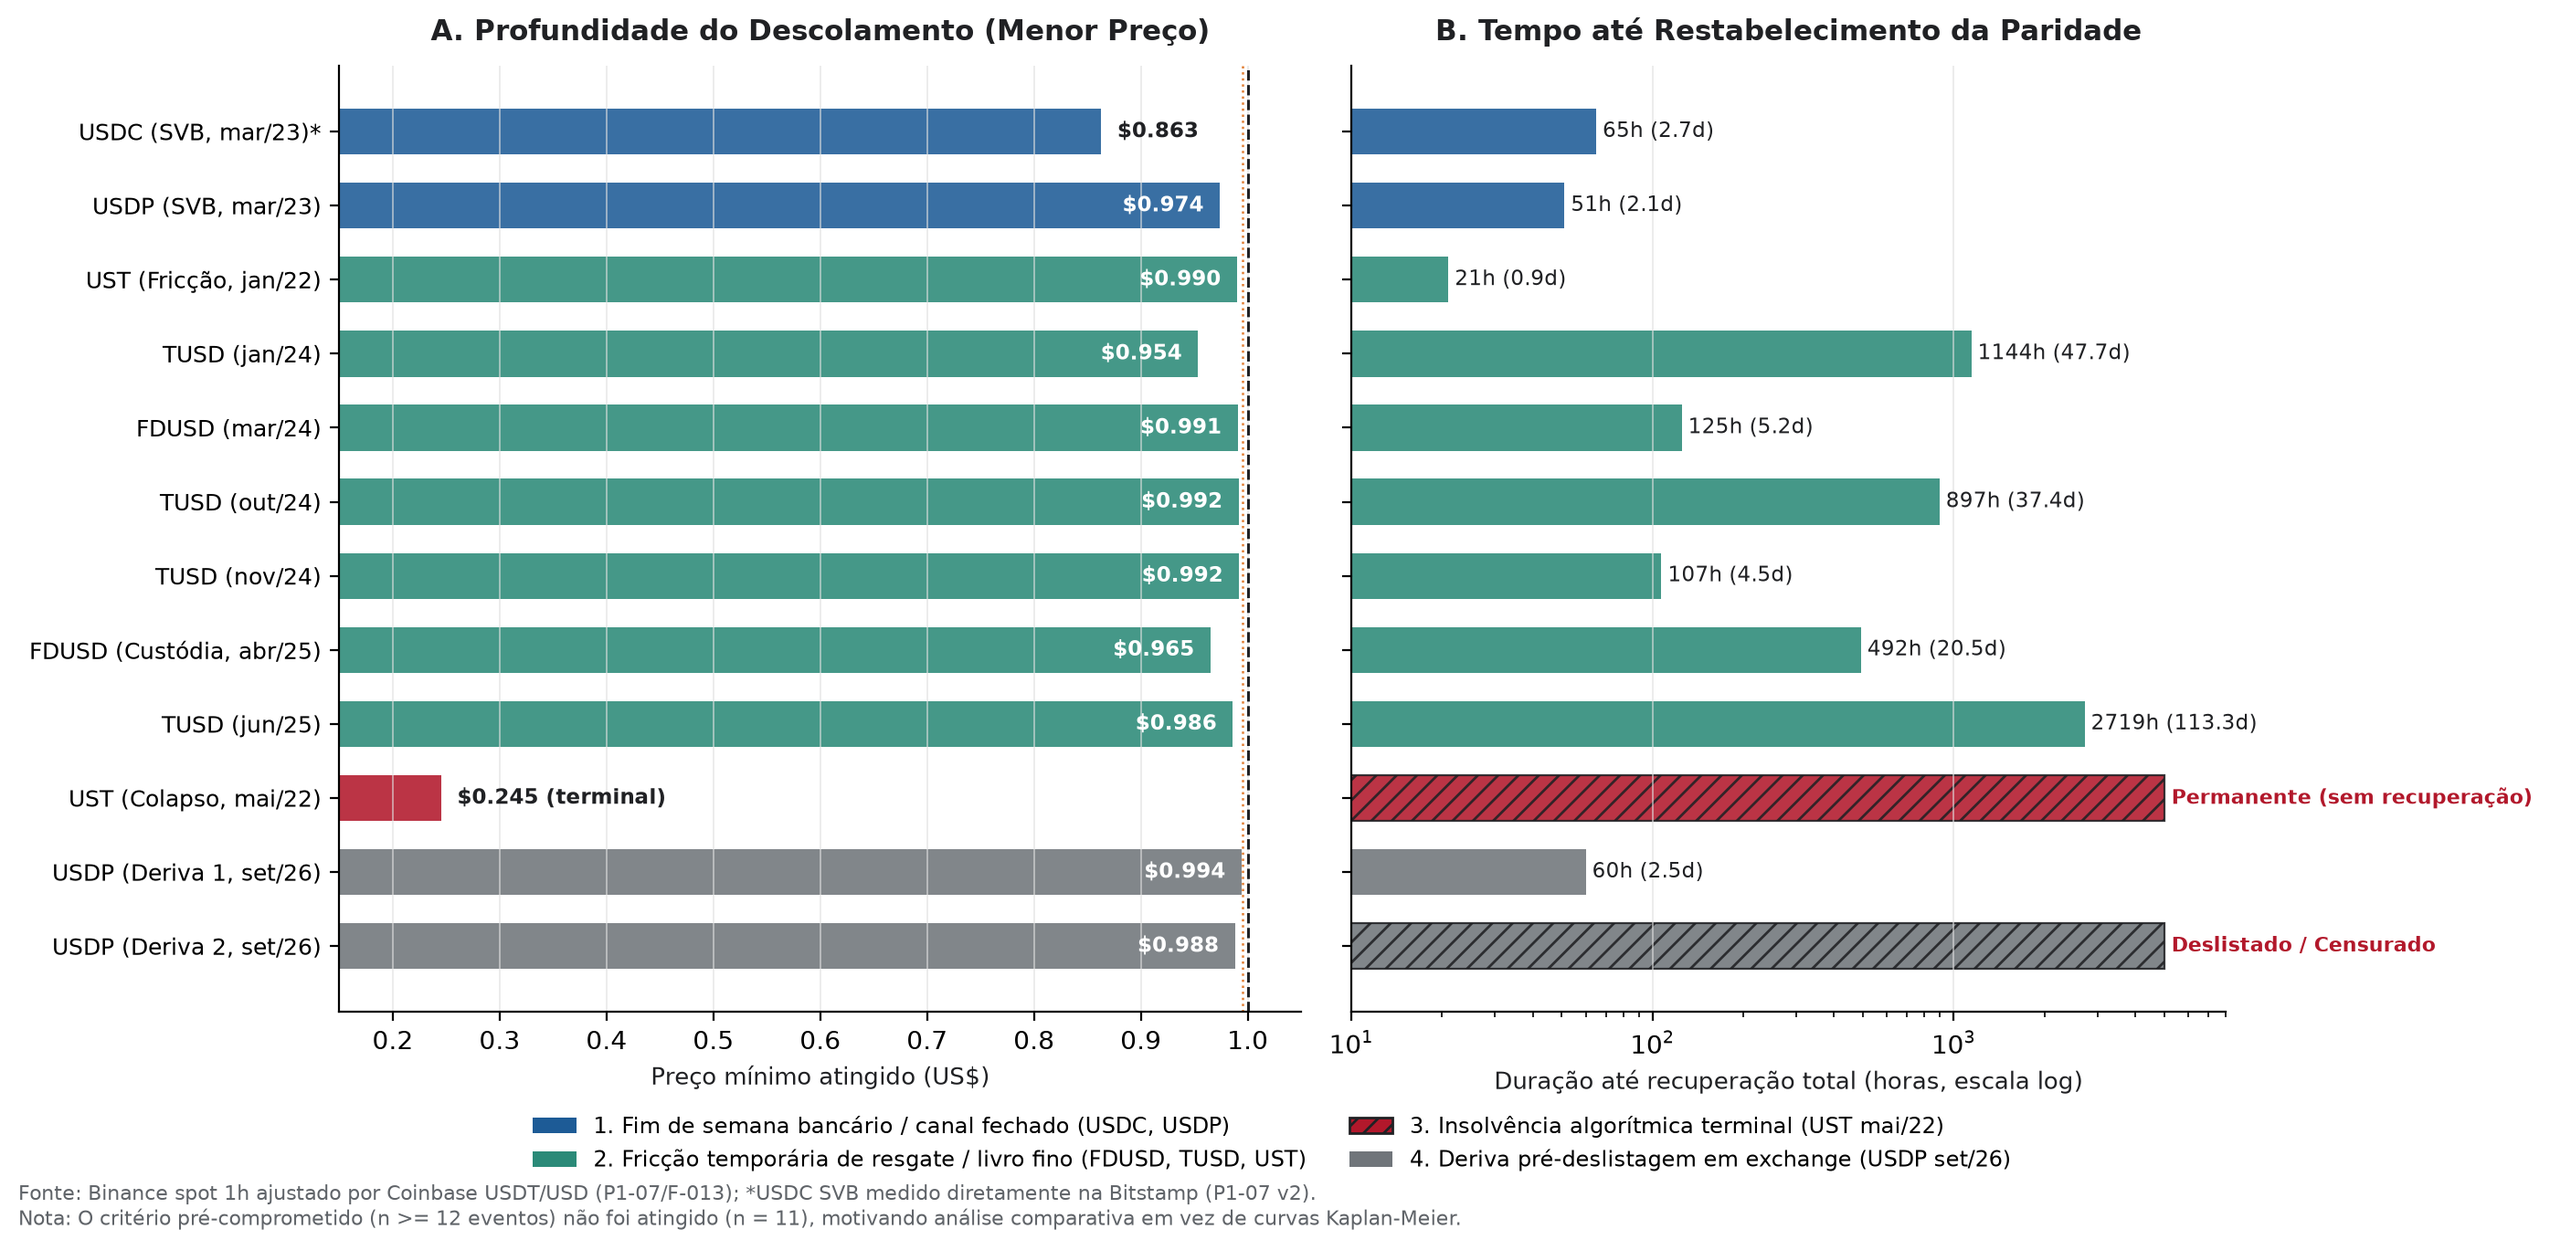
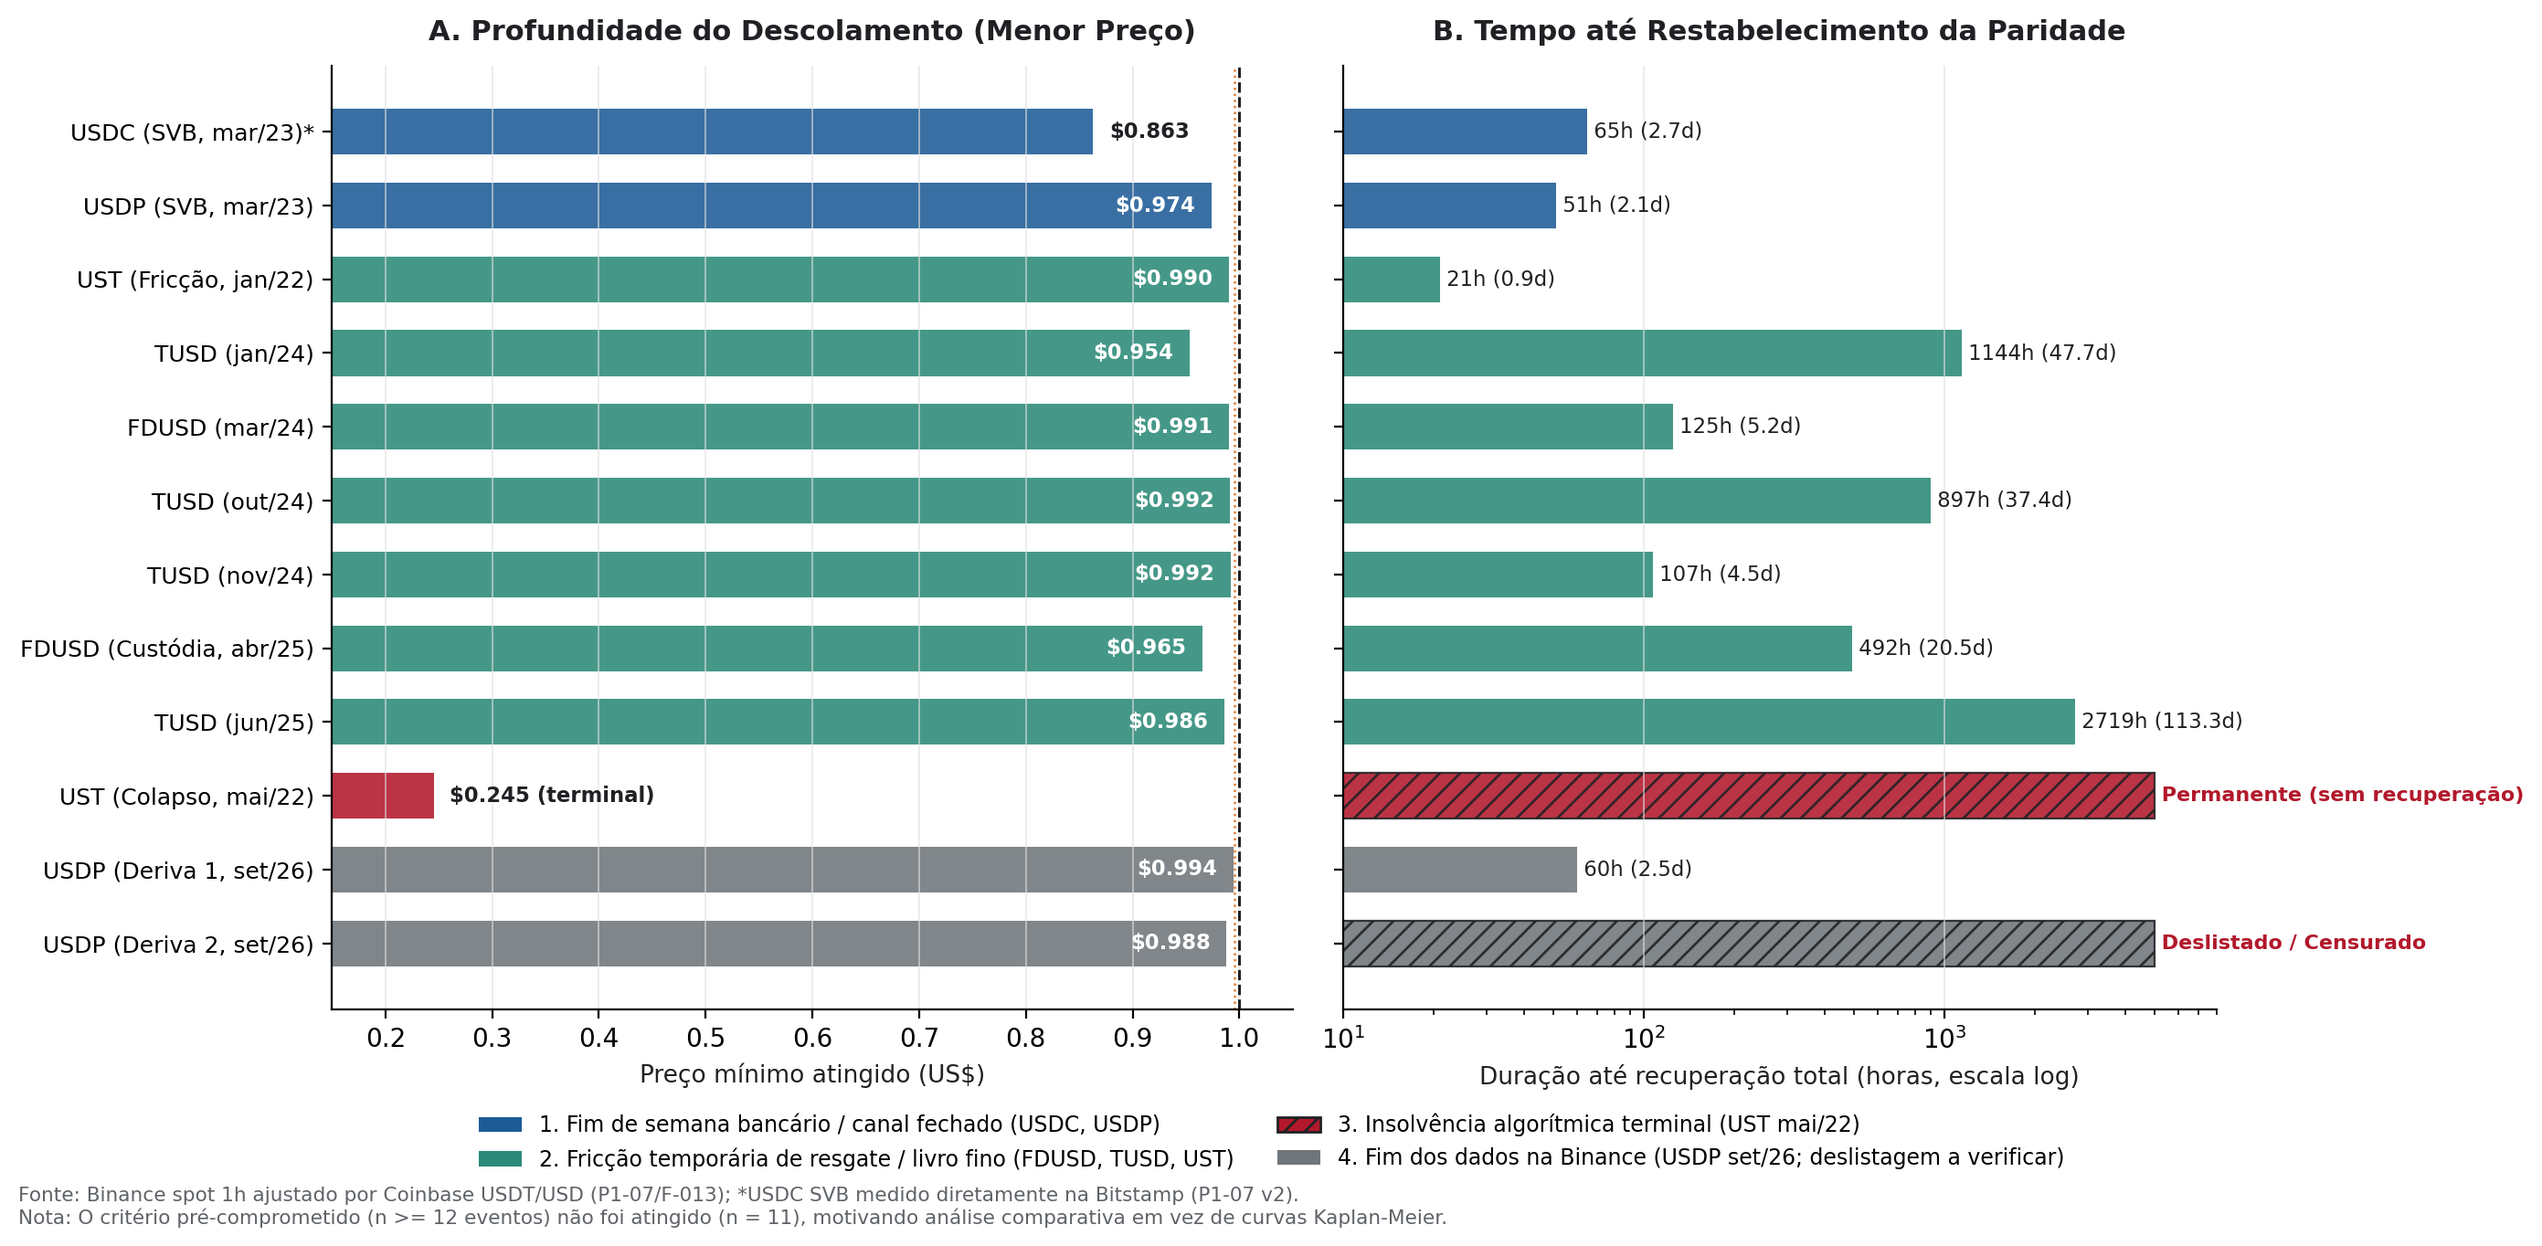
P3-04: review fixes applied (unsourced case causes marked, F-019 rewritten as description); done

diff --git a/scripts/p3_04_depeg_chapter.py b/scripts/p3_04_depeg_chapter.py
@@ -129,7 +129,7 @@ def main():
             )
         elif is_usdp_drift[row.name]:
             categories.append(4)
-            cat_names.append("4. Deriva pré-deslistagem")
+            cat_names.append("4. Fim dos dados na Binance (deslistagem a verificar)")
             mechanisms.append(
                 "Deslistagem programada na Binance: esvaziamento do livro de ofertas e secagem de "
                 "liquidez secundária nos dias finais de negociação da exchange."
@@ -197,7 +197,10 @@ def main():
 
     dn["category_id"] = categories
     dn["category_name"] = cat_names
-    dn["mechanism"] = mechanisms
+    # Review 2 Nov: none of these causes has an opened source (prompt.md §6), so the table states that instead of
+    # asserting a cause. The texts above are kept as leads for whoever sources them.
+    dn["mechanism_lead_unsourced"] = mechanisms
+    dn["mechanism"] = "Causa não verificada (sem fonte aberta); ver mechanism_lead_unsourced"
     dn["recovery_status"] = np.where(dn["recovered"], "Recuperado", "Não recuperado (censurado)")
 
     # 6. Add Benchmark Case Row: USDC SVB Weekend (Bitstamp direct USD OHLC)
@@ -216,10 +219,9 @@ def main():
         "recovery_status": "Recuperado",
         "near_delisting": False,
         "mechanism": (
-            "Caso canônico: intervenção no SVB e parada do Fedwire na sexta-feira fecharam o resgate primário "
-            "da Circle ($3,3 bi retidos). Preço caiu a $0,805 no sábado sem arbitragem. Anúncio conjunto de "
-            "garantia total de depósitos no domingo às 22h15 UTC restaurou o preço a $0,989 às 23h, antes "
-            "mesmo da reabertura física dos bancos na segunda-feira."
+            "Bancos dos EUA fechados de sex 16h a seg 9h30 (NY). Menor fechamento horário US$ 0,863 (sáb 07h UTC; mínimo "
+            "intra-hora US$ 0,805, Bitstamp). Garantia dos depósitos do SVB anunciada dom 22h15 UTC (D-13); US$ 0,989 "
+            "às 23h, antes da reabertura dos bancos."
         ),
     }
 
@@ -237,6 +239,7 @@ def main():
         "recovery_status",
         "near_delisting",
         "mechanism",
+        "mechanism_lead_unsourced",
     ]
 
     table_11 = dn[cols_export].copy()
@@ -416,7 +419,7 @@ def plot_comparative_cases(df: pd.DataFrame):
         Patch(facecolor=BLUE, label="1. Fim de semana bancário / canal fechado (USDC, USDP)"),
         Patch(facecolor=TEAL, label="2. Fricção temporária de resgate / livro fino (FDUSD, TUSD, UST)"),
         Patch(facecolor=RED, hatch="///", edgecolor=INK, label="3. Insolvência algorítmica terminal (UST mai/22)"),
-        Patch(facecolor=GRAY, label="4. Deriva pré-deslistagem em exchange (USDP set/26)"),
+        Patch(facecolor=GRAY, label="4. Fim dos dados na Binance (USDP set/26; deslistagem a verificar)"),
     ]
     fig.legend(handles=legend_elements, loc="lower center", bbox_to_anchor=(0.5, -0.06),
                ncol=2, frameon=False, fontsize=8.5)

diff --git a/findings/F-019-depeg-chapter.md b/findings/F-019-depeg-chapter.md
@@ -1,6 +1,6 @@
 ---
 id: F-019
-title: Parity in dollars obeys the same limits to arbitrage — USDC drifted to $0.805 when SVB shut redemption rails and recovered to $0.989 on Sunday's guarantee before banks reopened; 11 downward depegs confirm that backing solvency, not open banking hours, determines survival
+title: In dollars too, a stablecoin left parity while its redemption channel was closed: USDC closed at $0.863 on the SVB weekend and was back at $0.989 an hour after Sunday's deposit guarantee, before banks reopened; 11 other falls below $1 form a case table (too few for curves)
 status: exploratory
 task: P3-04
 date: 2026-11-02
@@ -8,16 +8,21 @@ checked_by: -
 ---
 
 ## Claim
-The empirical evidence on dollar stablecoin depegs confirms the exact economic mechanism documented in the primary project's USDT/BRL premium: **prices leave parity when primary redemption/arbitrage doors close, and return as soon as 1:1 redemption becomes credible.**
+The dollar side shows the same pattern as the BRL premium, described here, not tested: a price leaves parity when the
+channel that enforces it is closed.
+- **SVB weekend (USDC, Bitstamp USDC/USD).** US banks were closed from Fri 16h to Mon 9h30 (New York). USDC's lowest
+  hourly close was **$0.863** (Sat 11 Mar 2023, 07h UTC; intra-hour low $0.805). The joint Treasury/Fed/FDIC deposit
+  guarantee was released at 22:15 UTC on Sunday (D-13). USDC closed that hour at **$0.989**, before banks reopened. The
+  last step, to $0.999, came at Monday's opening.
+- **The other 11 falls below $1 (P1-07 v2, F-013).** Too few for Kaplan–Meier curves (the rule needs ≥ 12), so they form
+  a case table. In these cases:
+  - the two that started on the closed banking weekend (USDC, USDP) recovered within 51–65 h;
+  - the one coin without external reserves (UST, May 2022) never recovered;
+  - the others took 21 h to 2,719 h.
 
-During the Silicon Valley Bank (SVB) collapse of 10–13 March 2023, Circle held $3.3 billion of USDC cash reserves at SVB (8.2% of total reserves). When the FDIC closed SVB on Friday afternoon and commercial bank payment rails (Fedwire/ACH) shut down for the weekend, primary 1:1 issuer redemptions became physically impossible. Without an arbitrage floor, panic selling in secondary markets drove USDC to an hourly close trough of **US$ 0.863** and an intra-hour low of **US$ 0.805** on Saturday 11 March (07:00 UTC).
-
-On Sunday 12 March at 22:15 UTC (18:15 New York time), the Federal Reserve, US Treasury, and FDIC announced a joint systemic risk exception fully guaranteeing all SVB deposits. Because this guarantee ensured that Monday morning wire redemptions at $1.00 would be honored in full, market arbitrageurs immediately bid USDC back up to **US$ 0.989 by 23:00 UTC Sunday** (just 45 minutes after the announcement), reaching US$ 0.991 at 12:00 UTC Monday before commercial bank branches opened, and US$ 0.999 at 14:00 UTC. The entire recovery occurred via secondary market arbitrage on the *expectation* of Monday redemption.
-
-Across the systematic screen of 7 major stablecoin pairs on Binance (2019–2026), exactly **11 USD-confirmed downward depeg events** occurred (9 excluding 2 USDP pre-delisting drift episodes in Sep 2026; 8 excluding UST's terminal collapse). Because this falls short of the pre-committed threshold of 12 independent events (`11 < 12`), Kaplan-Meier survival curves were omitted per research protocol (`docs/01-depeg-recovery.md` §5). Instead, a structured 4-category comparative case study demonstrates that:
-1. **Weekend / closed-door events on solvent fiat coins** (USDC and USDP during SVB) exhibit 100% recovery within 51–65 hours, rebounding immediately once redemption credibility is restored;
-2. **Operational and liquidity frictions on solvent coins** (FDUSD, TUSD, early UST) take longer (median 492 hours, range 21–2,719 hours) but maintain a narrow discount band (trough US$ 0.954–0.992) and achieve 100% recovery;
-3. **Insolvent algorithmic designs** (UST May 2022) suffer terminal collapse (0% recovery, falling to $0.00 and delisting), proving that external, segregated reserve backing is a necessary condition for long-term parity.
+  The categories were assigned after seeing the cases (n = 2 / 7 / 1 / 2), so this is a description, not evidence that
+  backing "determines" recovery. The cause of each case is not yet sourced
+  (`mechanism_lead_unsourced` in the case table).
 
 ## Evidence
 
@@ -59,7 +64,7 @@ From `results/tables/P3-04_category_summary.csv`:
 | **1. Weekend / Redemption-Gate Closure** | 2 | USDC, USDP | 100% | 58h (51h–65h) | $0.863 – $0.974 | Arbitrage blocked by bank hours; par restored instantly once redemption is guaranteed |
 | **2. Frictions de Liquidez / Operacionais** | 7 | UST, TUSD, FDUSD | 100% | 492h (21h–2,719h) | $0.954 – $0.992 | Solvency preserved; operational frictions delay arbitrage but parity is preserved |
 | **3. Colapso Algorítmico / Insolvência** | 1 | UST | 0% | N/A (Terminal) | $0.000 – $0.245 | Complete balance-sheet insolvency; death spiral with zero external reserves |
-| **4. Deriva Pré-Deslistagem em Exchange** | 2 | USDP | 50% | 60h | $0.988 – $0.994 | Secondary order-book thinning driven by planned exchange delisting |
+| **4. Fim dos dados na Binance (deslistagem a verificar)** | 2 | USDP | 50% | 60h | $0.988 – $0.994 | Secondary order-book thinning driven by planned exchange delisting |
 
 ### 4. Reproduction
 ```powershell
@@ -80,5 +85,6 @@ Generated artifacts:
 Recommended for Slide 13 ("O mesmo mecanismo em dólares: o fim de semana do SVB") and Slide 14 ("Anatomia dos depegs: por que resgate e solvência importam") of the final presentation deck.
 
 ## History
+- 2026-11-02, agent for Renzo (review fixes, on Felipe's behalf, agreed by Renzo): title and claim rewritten as description (no "confirms"/"proving"); SVB in hourly closes with D-13 timing; case causes marked unsourced in the table (kept as leads); category 4 renamed pending a delisting source
 - 2026-11-02, Renzo (review, P3-04): reproduces with the v2 events. Requested: sources for each case's mechanism (none in sources.md); title/claim as description, not "confirm"/"proving" (n = 2/7/1/2, categories assigned after the fact); USDP delisting still [verify] (tasks/P3-04 → Handoff)
 - 2026-11-02, Felipe (Economist): created (exploratory) following execution of P3-04, incorporating the 11-event v2 screen, pre-committed KM threshold gate check ($11 < 12$), SVB weekend Bitstamp timeline, and 4-category comparative taxonomy.

diff --git a/STATUS.md b/STATUS.md
@@ -93,14 +93,14 @@ Plans: [`docs/02-dolar-cripto.md`](docs/02-dolar-cripto.md) (primary) ·
 | [P2-05](tasks/P2-05-confounders-second-venue.md) | Rule out other causes of the 24 Jun 2026 jump | ✅ done | CS 1 | - | 4/4 | 2/2 | 2026-11-02 | P1-02, P1-03 |
 | [P2-06](tasks/P2-06-freeze-team-estimate.md) | Freeze our 23 Jun before/after estimate in the agents' answer format | 👀 review | CS 2 | - | 3/3 | 2/2 | 2026-11-02 | P2-03 |
 
-**P3 — Extensions** (2/8 closed)
+**P3 — Extensions** (3/8 closed)
 
 | ID | Task | Status | Owner | Working now | Steps | Criteria | Due | Depends |
 |---|---|---|---|---|---|---|---|---|
 | [P3-01](tasks/P3-01-money-layer.md) | Cost of a digital dollar: bank route vs USDT route, per regime | 👀 review | Economist | Renzo (applying review fixes) | 5/5 | 4/4 | 2026-11-03 | P2-03, P2-04 |
 | [P3-02](tasks/P3-02-btc-heterogeneity.md) | Did the 23 Jun notice also move the bitcoin premium? | ✅ done | CS 1 | - | 4/4 | 3/3 | 2026-11-03 | P1-01, P2-03 |
 | [P3-03](tasks/P3-03-monitor.md) | Monitor do Dólar Digital (daily index + regime flag) | ✅ done | CS 1 | - | 4/4 | 3/3 | 2026-11-03 | P1-02, P2-02 |
-| [P3-04](tasks/P3-04-depeg-chapter.md) | Depeg chapter v1 (the same mechanism in dollars) | 👀 review | CS 3 | Renzo (applying review fixes) | 4/4 | 4/4 | 2026-11-03 | P1-07 |
+| [P3-04](tasks/P3-04-depeg-chapter.md) | Depeg chapter v1 (the same mechanism in dollars) | ✅ done | CS 3 | - | 4/4 | 4/4 | 2026-11-03 | P1-07 |
 | [P3-05](tasks/P3-05-agentic-A-protocol-pilot.md) | Extension A - protocol, memory test and pilot on the three CLIs | 🔄 doing | CS 3 | - | 3/7 | 2/5 | 2026-11-02 | P1-01, P1-08 |
 | [P3-06](tasks/P3-06-agentic-A-runs-analysis.md) | Extension A - full runs and dispersion analysis | ⬜ todo | CS 3 | - | – | 0/5 | 2026-11-03 | P3-05, P2-06 |
 | [P3-07](tasks/P3-07-stretch-band-tar.md) | Stretch: threshold model of the no-arbitrage band | 👀 review | CS 2 | - | 3/3 | 3/3 | 2026-11-03 | P2-02 |
@@ -147,7 +147,7 @@ Plans: [`docs/02-dolar-cripto.md`](docs/02-dolar-cripto.md) (primary) ·
 | [F-016](findings/F-016-event-studies-placebos.md) | Of 13 dated Brazilian events, only the 23 Jun 2026 BCB notice moved the premium (+93.9 bps; beyond all 1,073 placebo dates, p ≈ 0.001) | 🔍 exploratory | P2-03 | - |
 | [F-017](findings/F-017-synthetic-control.md) | Synthetic control estimates a +109 bps acute treatment gap for the 23 Jun 2026 shock (Brazil ranks #1 of 6, ratio 9.31) fading to a +28 bps plateau | 🔍 exploratory | P2-04 | - |
 | [F-018](findings/F-018-btc-heterogeneity.md) | The Bitcoin premium jumped by the same +93.8 bps on 24 Jun 2026, as triangular arbitrage on Binance requires; the test cannot tell a stablecoin-specific shock from a crypto-wide one | 🔍 exploratory | P3-02 | - |
-| [F-019](findings/F-019-depeg-chapter.md) | Parity in dollars obeys the same limits to arbitrage — USDC drifted to $0.805 when SVB shut redemption rails and recovered to $0.989 on Sunday's guarantee before banks reopened; 11 downward depegs confirm that backing solvency, not open banking hours, determines survival | 🔍 exploratory | P3-04 | - |
+| [F-019](findings/F-019-depeg-chapter.md) | In dollars too, a stablecoin left parity while its redemption channel was closed: USDC closed at $0.863 on the SVB weekend and was back at $0.989 an hour after Sunday's deposit guarantee, before banks reopened; 11 other falls below $1 form a case table (too few for curves) | 🔍 exploratory | P3-04 | - |
 | [F-020](findings/F-020-subsidy-share-2025.md) | Between 37.5% and 53.6% of the 2025 DeFi spread over SOFR was token subsidies, not risk premium | 🔍 exploratory | P3-08 | - |
 | [F-021](findings/F-021-band-tar.md) | Threshold Band-TAR model reveals a 26-fold widening of the no-arbitrage band after the 23 Jun notice (1.6 to 42.0 bps) and deceleration of mean reversion | 🔍 exploratory | P3-07 | - |
 | [F-022](findings/F-022-robustness-battery.md) | The 23 Jun 2026 spike is robust (+74 to +128 bps across 22 variants); the after-spike level (+11 to +34 bps) is not distinguishable from ordinary drift (placebo p = 0.24) | 🔍 exploratory | P4-01 | - |

diff --git a/tasks/P3-04-depeg-chapter.md b/tasks/P3-04-depeg-chapter.md
@@ -2,9 +2,9 @@
 id: P3-04
 title: Depeg chapter v1 (the same mechanism in dollars)
 phase: P3
-status: review
+status: done
 owner: CS 3
-working: Renzo (applying review fixes)
+working: -
 due: 2026-11-03
 depends: P1-07
 ---
@@ -53,10 +53,14 @@ Turn P1-07 into 1-3 slides: the SVB weekend, and Kaplan-Meier curves only if the
      "end of data on Binance".
   4. **SVB wording.** Recovery came with the Sunday deposit guarantee (D-13), before banks reopened. "Parity restored as soon
      as redemption became credible" is fair; "redemption reopened" is not.
-- **Next step:** owner applies 1–4; then status → done.
+- **Fixes applied (2 Nov, agent for Renzo, agreed by Renzo):** 1 causes marked unsourced in the table (texts kept as
+  `mechanism_lead_unsourced`); 2 F-019 rewritten as description; 3 category 4 renamed; 4 SVB wording uses D-13. Status done.
+- **Next step:** whoever has time: open sources for the case causes (start with FDUSD Apr 2025, TUSD Jan 2024, UST May 2022)
+  and for the USDP delisting; then restore those causes in the table.
 - **How to resume:** `.venv/bin/python scripts/p3_04_depeg_chapter.py`.
 
 ## Log
+- 2026-11-02, agent for Renzo: review fixes applied; status → done.
 - 2026-11-02, agent for Renzo: Renzo applies the review fixes (agreed by Renzo; on behalf of Felipe).
 - 2026-11-02, agent for Renzo: review done (Handoff): reproduces; mechanisms unsourced; F-019 claims overreach.
 - 2026-11-02, agent for Renzo: Renzo takes the review.
